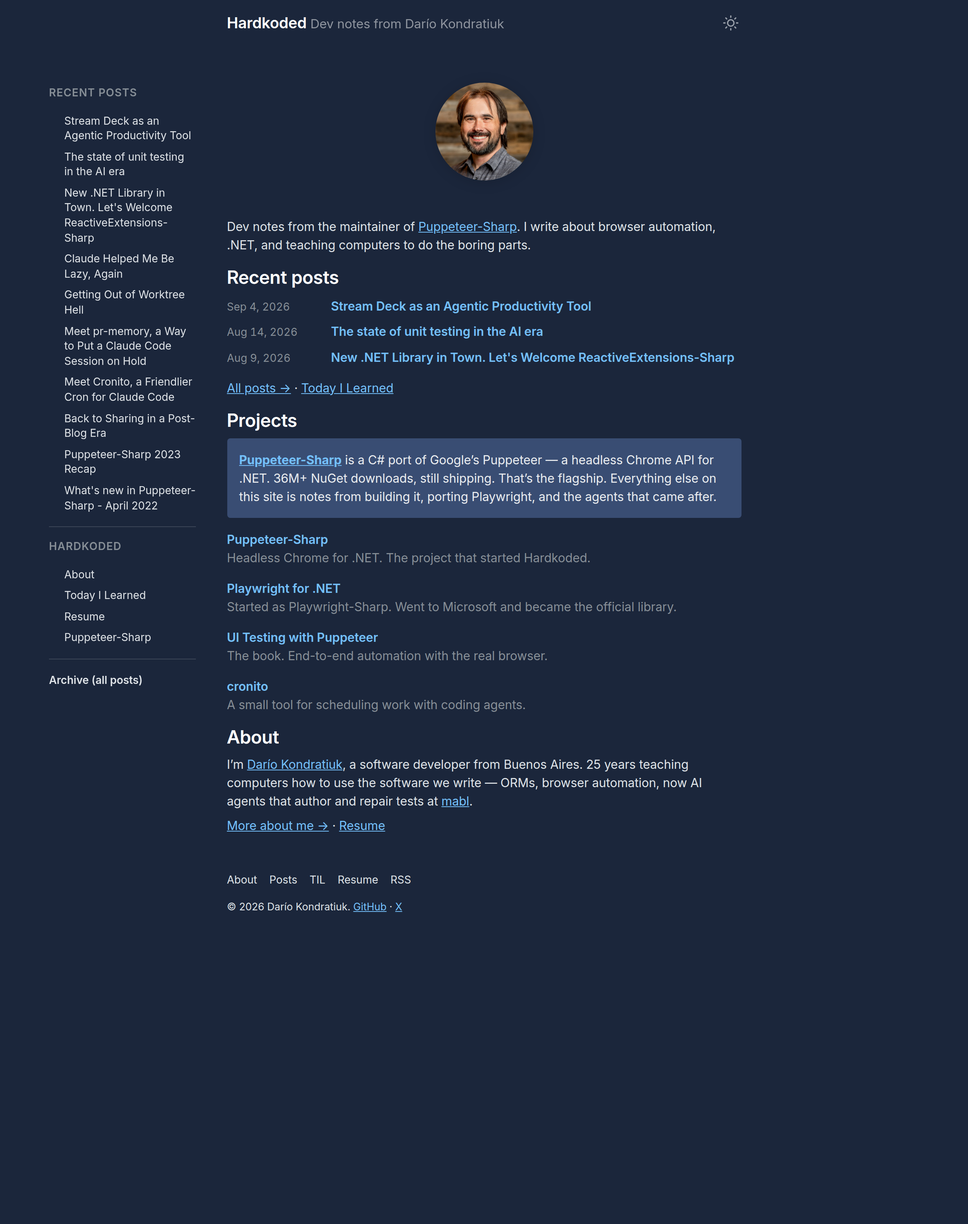
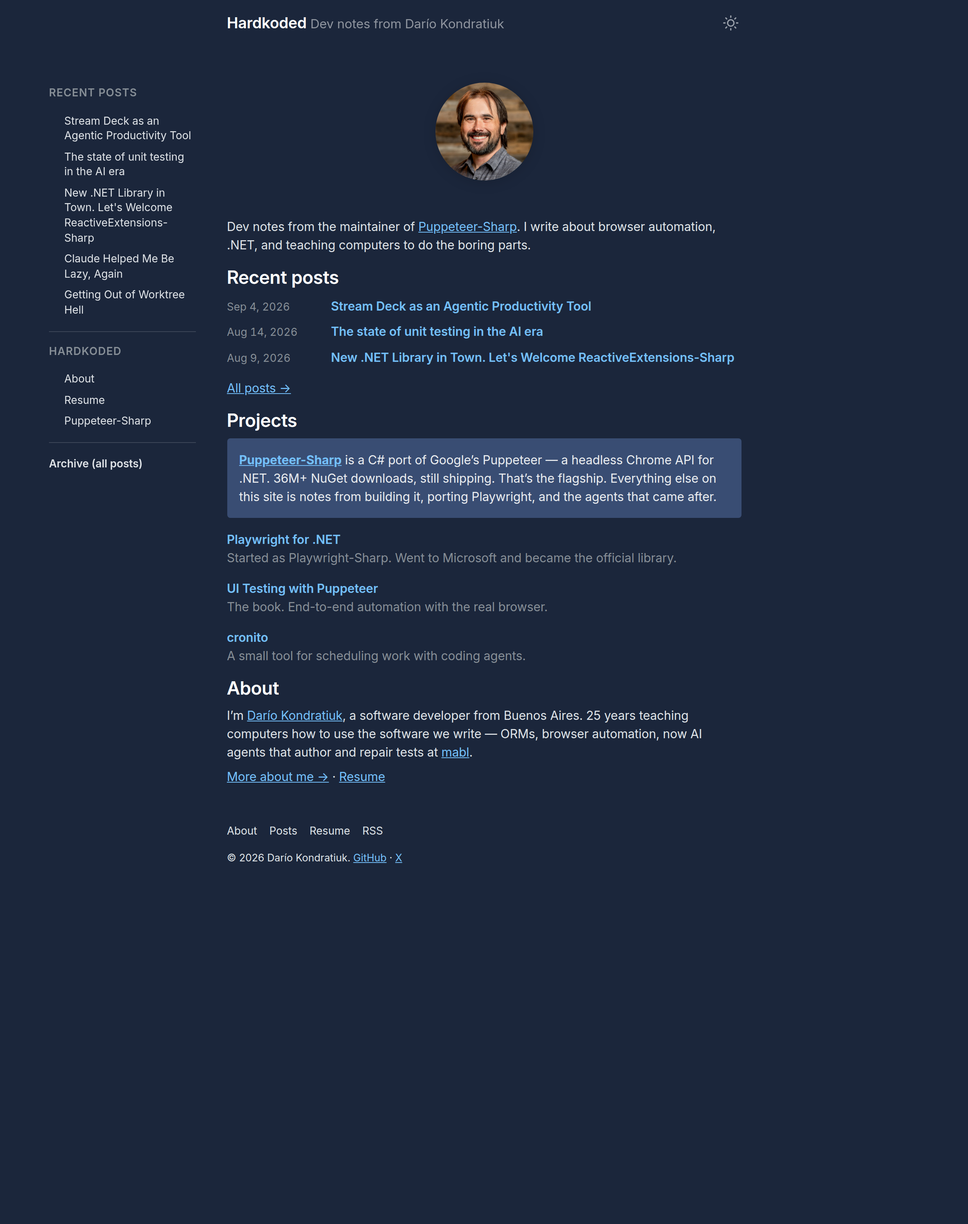
Tighten Swimmer preview: one CTA, no TIL, 5 recent, hero
- Homepage keeps a single Puppeteer-Sharp flagship box; other
  projects only below it.
- Remove the TIL collection, /til/ page, and chrome links.
- Cap the sidebar Recent Posts list at 5 (homepage funnel stays 3).
- Render page.hero / page.image on posts; add AI-era light screenshot.

diff --git a/styles.css b/styles.css
@@ -1,2 +1,2 @@
 /*! tailwindcss v4.3.1 | MIT License | https://tailwindcss.com */
-@layer properties{@supports (((-webkit-hyphens:none)) and (not (margin-trim:inline))) or ((-moz-orient:inline) and (not (color:rgb(from red r g b)))){*,:before,:after,::backdrop{--tw-rotate-x:initial;--tw-rotate-y:initial;--tw-rotate-z:initial;--tw-skew-x:initial;--tw-skew-y:initial;--tw-border-style:solid;--tw-blur:initial;--tw-brightness:initial;--tw-contrast:initial;--tw-grayscale:initial;--tw-hue-rotate:initial;--tw-invert:initial;--tw-opacity:initial;--tw-saturate:initial;--tw-sepia:initial;--tw-drop-shadow:initial;--tw-drop-shadow-color:initial;--tw-drop-shadow-alpha:100%;--tw-drop-shadow-size:initial}}}@layer theme{:root,:host{--color-blue-300:#74c0fc;--color-blue-400:#4dabf7;--color-gray-200:#e9ecef;--color-gray-300:#dee2e6;--color-gray-400:#ced4da;--color-gray-600:#868e96;--color-gray-700:#495057;--color-gray-900:#212529;--color-grape:#be4bdb;--color-blue:#228be6;--font-body:"Inter", -apple-system, BlinkMacSystemFont, "Segoe UI", Roboto, "Helvetica Neue", Arial, "Noto Sans", sans-serif, "Apple Color Emoji", "Segoe UI Emoji", "Segoe UI Symbol", "Noto Color Emoji";--font-code:"Roboto Mono", SFMono-Regular, Menlo, Monaco, Consolas, "Liberation Mono", "Courier New", monospace;--radius-default:.25rem}}@layer utilities{.invisible{visibility:hidden}.visible{visibility:visible}.absolute{position:absolute}.fixed{position:fixed}.relative{position:relative}.static{position:static}.container{width:100%}@media (min-width:40rem){.container{max-width:40rem}}@media (min-width:48rem){.container{max-width:48rem}}@media (min-width:64rem){.container{max-width:64rem}}@media (min-width:80rem){.container{max-width:80rem}}@media (min-width:96rem){.container{max-width:96rem}}.block{display:block}.grid{display:grid}.inline{display:inline}.table{display:table}.grow{flex-grow:1}.transform{transform:var(--tw-rotate-x,) var(--tw-rotate-y,) var(--tw-rotate-z,) var(--tw-skew-x,) var(--tw-skew-y,)}.border{border-style:var(--tw-border-style);border-width:1px}.filter{filter:var(--tw-blur,) var(--tw-brightness,) var(--tw-contrast,) var(--tw-grayscale,) var(--tw-hue-rotate,) var(--tw-invert,) var(--tw-saturate,) var(--tw-sepia,) var(--tw-drop-shadow,)}}@font-face{font-family:Inter;font-style:normal;font-weight:100 900;font-display:swap;src:url(assets/fonts/InterVariable.woff2)format("woff2")}@font-face{font-family:Roboto Mono;font-style:normal;font-weight:100 700;font-display:swap;src:url(assets/fonts/RobotoMono-Variable.woff2)format("woff2")}:root{--body-font-size:16px;--body-line-height:1.5;--body-color:var(--color-gray-700);--body-bg:#f7f9fc;--link-color:var(--color-blue);--link-hover-color:#1c7ed6;--heading-color:var(--color-gray-900);--border-color:var(--color-gray-400);--code-color:var(--color-grape);--code-bg:#eef0f5;--highlight-color:var(--color-gray-900);--highlight-bg:#cfe9ff;--spacer:1rem;--spacer-2:calc(var(--spacer) * 1.5);--spacer-3:calc(var(--spacer) * 3)}@media (prefers-color-scheme:dark){:root:not([data-theme=light]){--body-color:var(--color-gray-300);--body-bg:#1b263b;--heading-color:#fff;--link-color:var(--color-blue-300);--link-hover-color:var(--color-blue-400);--border-color:#ffffff26;--code-bg:#131c2e;--highlight-color:var(--color-gray-200);--highlight-bg:#394d73}}:root[data-theme=dark]{--body-color:var(--color-gray-300);--body-bg:#1b263b;--heading-color:#fff;--link-color:var(--color-blue-300);--link-hover-color:var(--color-blue-400);--border-color:#ffffff26;--code-bg:#131c2e;--highlight-color:var(--color-gray-200);--highlight-bg:#394d73}html{scrollbar-gutter:stable}*{box-sizing:border-box}body{font-family:var(--font-body);font-size:var(--body-font-size);line-height:var(--body-line-height);color:var(--body-color);background-color:var(--body-bg);-webkit-text-size-adjust:100%;-ms-text-size-adjust:100%;-webkit-font-smoothing:antialiased;-moz-osx-font-smoothing:grayscale;text-rendering:optimizelegibility;margin:0}a{color:var(--link-color)}a:hover,a:focus{color:var(--link-hover-color)}a strong{color:inherit}img{max-width:100%;margin-bottom:var(--spacer);border-radius:var(--radius-default);display:block}table{border:0 solid var(--border-color);border-collapse:collapse;width:100%;margin-bottom:1rem}td,th{border-color:inherit;border-style:solid;border-width:0 0 1px;padding:.25rem .5rem}th{text-align:left}thead th{border-bottom-color:currentColor}mark{color:var(--highlight-color);background-color:var(--highlight-bg);border-radius:.125rem;padding:.15rem}h1,h2,h3,h4,h5,h6{color:var(--heading-color);margin-bottom:.5rem;font-weight:600;line-height:1.25}h1{font-size:2rem}h2{margin-top:1rem;font-size:1.5rem}h3{margin-top:1.5rem;font-size:1.25rem}h4,h5,h6{margin-top:1rem;font-size:1rem}p,ul,ol,dl{margin-top:0;margin-bottom:1rem}dt{font-weight:700}dd{margin-bottom:.5rem}hr{margin:var(--spacer-2) 0;border:0;border-top:1px solid var(--border-color);position:relative}abbr{color:var(--color-gray-600);text-transform:uppercase;font-size:85%;font-weight:700}abbr[title]{cursor:help;border-bottom:1px dotted var(--border-color)}blockquote{color:var(--color-gray-600);border-left:.25rem solid var(--border-color);margin:.8rem 0;padding:.5rem 1rem}blockquote p:last-child{margin-bottom:0}@media (min-width:30em){blockquote{padding-left:1.25rem;padding-right:5rem}}figure{margin:0}a[href^="#fn:"],a[href^="#fnref:"]{margin-left:.1rem;font-weight:700;display:inline-block}.footnotes{margin-top:2rem;font-size:85%}.lead{font-size:1.25rem;font-weight:300}.highlight .hll{background-color:#ffc}.highlight .c{color:#999}.highlight .err{color:#a00;background-color:#faa}.highlight .k{color:#069}.highlight .o{color:#555}.highlight .cm{color:#09f;font-style:italic}.highlight .cp{color:#099}.highlight .c1,.highlight .cs{color:#999}.highlight .gd{background-color:#fcc;border:1px solid #c00}.highlight .ge{font-style:italic}.highlight .gr{color:red}.highlight .gh{color:#030}.highlight .gi{background-color:#cfc;border:1px solid #0c0}.highlight .go{color:#aaa}.highlight .gp{color:#009}.highlight .gu{color:#030}.highlight .gt{color:#9c6}.highlight .kc,.highlight .kd,.highlight .kn,.highlight .kp,.highlight .kr{color:#069}.highlight .kt{color:#078}.highlight .m{color:#f60}.highlight .s{color:#d44950}.highlight .na{color:#4f9fcf}.highlight .nb{color:#366}.highlight .nc{color:#0a8}.highlight .no{color:#360}.highlight .nd{color:#99f}.highlight .ni{color:#999}.highlight .ne{color:#c00}.highlight .nf{color:#c0f}.highlight .nl{color:#99f}.highlight .nn{color:#0cf}.highlight .nt{color:#2f6f9f}.highlight .nv{color:#033}.highlight .ow{color:#000}.highlight .w{color:#bbb}.highlight .mf,.highlight .mh,.highlight .mi,.highlight .mo{color:#f60}.highlight .sb,.highlight .sc{color:#c30}.highlight .sd{color:#c30;font-style:italic}.highlight .s2,.highlight .se,.highlight .sh{color:#c30}.highlight .si{color:#a00}.highlight .sx{color:#c30}.highlight .sr{color:#3aa}.highlight .s1{color:#c30}.highlight .ss{color:#b58900}.highlight .bp{color:#366}.highlight .vc,.highlight .vg,.highlight .vi{color:#033}.highlight .il{color:#f60}.css .o,.css .o+.nt,.css .nt+.nt{color:#999}@media (prefers-color-scheme:dark){:root:not([data-theme=light]) .highlight .hll{background-color:#ffffc814}:root:not([data-theme=light]) .highlight .err{color:#e55;background-color:#ff646426}:root:not([data-theme=light]) .highlight .o{color:#999}:root:not([data-theme=light]) .highlight .cp{color:#2cc}:root:not([data-theme=light]) .highlight .gd{background-color:#ff64641a;border-color:#c55}:root:not([data-theme=light]) .highlight .gh,:root:not([data-theme=light]) .highlight .gu{color:#6abf6a}:root:not([data-theme=light]) .highlight .gi{background-color:#64ff641a;border-color:#5a5}:root:not([data-theme=light]) .highlight .gp{color:#68d}:root:not([data-theme=light]) .highlight .k,:root:not([data-theme=light]) .highlight .kc,:root:not([data-theme=light]) .highlight .kd,:root:not([data-theme=light]) .highlight .kn,:root:not([data-theme=light]) .highlight .kp,:root:not([data-theme=light]) .highlight .kr,:root:not([data-theme=light]) .highlight .kt{color:#5aa8d8}:root:not([data-theme=light]) .highlight .nb,:root:not([data-theme=light]) .highlight .bp{color:#5dadad}:root:not([data-theme=light]) .highlight .nc{color:#2cc9a8}:root:not([data-theme=light]) .highlight .no{color:#7abf4a}:root:not([data-theme=light]) .highlight .nt{color:#5ab0e0}:root:not([data-theme=light]) .highlight .nv,:root:not([data-theme=light]) .highlight .vc,:root:not([data-theme=light]) .highlight .vg,:root:not([data-theme=light]) .highlight .vi{color:#5dadad}:root:not([data-theme=light]) .highlight .ow{color:silver}:root:not([data-theme=light]) .highlight .sr{color:#5cc}}:root[data-theme=dark] .highlight .hll{background-color:#ffffc814}:root[data-theme=dark] .highlight .err{color:#e55;background-color:#ff646426}:root[data-theme=dark] .highlight .o{color:#999}:root[data-theme=dark] .highlight .cp{color:#2cc}:root[data-theme=dark] .highlight .gd{background-color:#ff64641a;border-color:#c55}:root[data-theme=dark] .highlight .gh,:root[data-theme=dark] .highlight .gu{color:#6abf6a}:root[data-theme=dark] .highlight .gi{background-color:#64ff641a;border-color:#5a5}:root[data-theme=dark] .highlight .gp{color:#68d}:root[data-theme=dark] .highlight .k,:root[data-theme=dark] .highlight .kc,:root[data-theme=dark] .highlight .kd,:root[data-theme=dark] .highlight .kn,:root[data-theme=dark] .highlight .kp,:root[data-theme=dark] .highlight .kr,:root[data-theme=dark] .highlight .kt{color:#5aa8d8}:root[data-theme=dark] .highlight .nb,:root[data-theme=dark] .highlight .bp{color:#5dadad}:root[data-theme=dark] .highlight .nc{color:#2cc9a8}:root[data-theme=dark] .highlight .no{color:#7abf4a}:root[data-theme=dark] .highlight .nt{color:#5ab0e0}:root[data-theme=dark] .highlight .nv,:root[data-theme=dark] .highlight .vc,:root[data-theme=dark] .highlight .vg,:root[data-theme=dark] .highlight .vi{color:#5dadad}:root[data-theme=dark] .highlight .ow{color:silver}:root[data-theme=dark] .highlight .sr{color:#5cc}code,pre{font-family:var(--font-code)}code{font-size:85%}pre{margin-top:0;margin-bottom:var(--spacer-3);scrollbar-width:thin;scrollbar-color:var(--border-color) transparent;display:block;overflow:auto}.highlight{padding:var(--spacer);margin-bottom:var(--spacer);background-color:var(--code-bg);border-radius:var(--radius-default)}.highlight pre{margin-bottom:0}.highlight .highlight{padding:0}.rouge-table{margin-bottom:0;font-size:100%}.rouge-table,.rouge-table td,.rouge-table th{border:0}.rouge-table .gutter{vertical-align:top;-webkit-user-select:none;user-select:none;opacity:.25}.gist .markdown-body{padding:15px!important}.site-container{max-width:45rem;padding-left:var(--spacer-2);padding-right:var(--spacer-2);margin-left:auto;margin-right:auto}footer{margin-top:var(--spacer-3);margin-bottom:var(--spacer-3)}.landing-logo{margin:0 auto var(--spacer-3);border-radius:var(--radius-default);filter:drop-shadow(0 2px 8px #00000026);display:block}.masthead{justify-content:space-between;align-items:center;gap:var(--spacer);padding-top:var(--spacer);padding-bottom:var(--spacer);margin-bottom:var(--spacer-3);display:flex}@media (max-width:50rem){.masthead{padding-left:2rem}}.masthead-title{margin-top:0;margin-bottom:0}.masthead-title a{color:inherit;text-decoration:none}.masthead-title small{opacity:.5;font-weight:400}.theme-toggle{cursor:pointer;color:var(--body-color);opacity:.65;background:0 0;border:none;flex-shrink:0;padding:.25rem;line-height:1;transition:opacity .2s}.theme-toggle:hover{opacity:1}.theme-toggle svg{width:1.25rem;height:1.25rem;display:block}.theme-toggle .icon-sun{display:none}.theme-toggle .icon-moon{display:block}@media (prefers-color-scheme:dark){:root:not([data-theme=light]) .theme-toggle .icon-sun{display:block}:root:not([data-theme=light]) .theme-toggle .icon-moon{display:none}}:root[data-theme=dark] .theme-toggle .icon-sun{display:block}:root[data-theme=dark] .theme-toggle .icon-moon,:root[data-theme=light] .theme-toggle .icon-sun{display:none}:root[data-theme=light] .theme-toggle .icon-moon{display:block}.page,.post{margin-bottom:4em}:is(.page,.post) li+li{margin-top:.25rem}.page-title,.post-title{color:var(--heading-color);margin-top:0}.post-title a{color:inherit;text-decoration:none}.post-title a:hover,.post-title a:focus{text-decoration:underline}.post-date{margin-top:-.5rem;margin-bottom:var(--spacer);color:var(--color-gray-600);display:block}.related{padding-top:var(--spacer-2);padding-bottom:var(--spacer-2);margin-bottom:var(--spacer-2);border-top:1px solid var(--border-color);border-bottom:1px solid var(--border-color)}.related-posts{padding-left:0;list-style:none}.related-posts h3{margin-top:0}.related-posts a{text-decoration:none}.related-posts a small{color:var(--color-gray-600)}.post-sidebar-toggle{z-index:40;border:1px solid var(--border-color);border-radius:var(--radius-default);background-color:var(--body-bg);width:2.25rem;height:2.25rem;color:var(--body-color);cursor:pointer;justify-content:center;align-items:center;padding:0;transition:opacity .2s;display:flex;position:fixed;top:.75rem;left:.75rem}.post-sidebar-toggle svg{width:1.25rem;height:1.25rem;display:block}.post-sidebar-toggle:hover{opacity:.7}.post-sidebar-backdrop{z-index:20;opacity:0;pointer-events:none;background:#0006;transition:opacity .25s;position:fixed;inset:0}.post-sidebar-backdrop.open{opacity:1;pointer-events:auto}.post-sidebar{z-index:30;width:16rem;padding:var(--spacer-2);background-color:var(--body-bg);border-right:1px solid var(--border-color);padding-top:4rem;transition:transform .25s;position:fixed;top:0;bottom:0;left:0;overflow-y:auto;transform:translate(-100%)}.post-sidebar.open{transform:translate(0)}.post-sidebar-heading{margin-top:0;margin-bottom:var(--spacer);letter-spacing:.05em;text-transform:uppercase;color:var(--color-gray-600);font-size:.875rem;font-weight:600}.post-sidebar-heading--related{margin-top:var(--spacer);padding-top:var(--spacer);border-top:1px solid var(--border-color)}.post-sidebar-list{margin:0;padding-left:1.25em;list-style:none}.post-sidebar-list li+li{margin-top:.25rem}.post-sidebar-list a{color:var(--body-color);padding:.125rem 0;font-size:.875rem;line-height:1.4;text-decoration:none;display:block}.post-sidebar-list a:hover,.post-sidebar-list a:focus{color:var(--link-color)}.post-sidebar-list a.active{color:var(--heading-color);font-weight:600;position:relative}.post-sidebar-list a.active:before{content:"→";position:absolute;left:-1.25em}.post-sidebar-archive{margin-top:var(--spacer);padding-top:var(--spacer);border-top:1px solid var(--border-color);color:var(--body-color);font-size:.875rem;font-weight:600;text-decoration:none;display:block}.post-sidebar-archive:hover,.post-sidebar-archive:focus{color:var(--link-color)}@media (min-width:75rem){.post-sidebar-toggle,.post-sidebar-backdrop{display:none}.post-sidebar{top:7rem;left:calc((100vw - 45rem) / 2 - 12rem - var(--spacer-2));z-index:auto;background-color:#0000;border-right:none;width:12rem;max-height:calc(100vh - 8rem);padding:0;transition:none;position:fixed;bottom:auto;overflow-y:auto;transform:none}}.pagination{margin:0 -1.5rem var(--spacer);color:var(--color-gray-600);text-align:center;flex-direction:column;display:flex}.pagination-item{padding:var(--spacer);border:solid var(--border-color);border-width:1px 0;text-decoration:none;display:block}.pagination-item:first-child{margin-bottom:-1px}a.pagination-item:hover{background-color:var(--border-color)}@media (min-width:30em){.pagination{margin:var(--spacer-3) 0;flex-direction:row}.pagination-item{float:left;border-width:1px;width:50%}.pagination-item:first-child{border-top-left-radius:var(--radius-default);border-bottom-left-radius:var(--radius-default);margin-bottom:0}.pagination-item:last-child{border-top-right-radius:var(--radius-default);border-bottom-right-radius:var(--radius-default);margin-left:-1px}}.message{padding:var(--spacer);margin-bottom:var(--spacer);color:var(--highlight-color);background-color:var(--highlight-bg);border-radius:var(--radius-default)}#markdown-toc{padding:var(--spacer-2) var(--spacer-3);margin-bottom:var(--spacer-2);border:solid var(--border-color);border-width:1px 0}#markdown-toc:before{margin-left:calc(var(--spacer-3) * -1);content:"Contents";font-size:85%;font-weight:500;display:block}.landing-logo{object-fit:cover;border-radius:50%;width:8rem;height:8rem}.landing-posts{margin-bottom:var(--spacer-2);padding-left:0;list-style:none}.landing-posts li{grid-template-columns:7.5rem 1fr;align-items:baseline;gap:.75rem 1rem;margin-top:.6rem;display:grid}.landing-posts time{color:var(--color-gray-600);font-variant-numeric:tabular-nums;font-size:.875rem}.landing-posts a{font-weight:600;text-decoration:none}.landing-posts a:hover,.landing-posts a:focus{text-decoration:underline}.landing-posts-sub{color:var(--color-gray-600);font-size:.9rem;font-weight:400;display:block}.landing-more{margin-top:-.5rem}.project-list{padding-left:0;list-style:none}.project-list li{margin-bottom:1rem}.project-list a{font-weight:600;text-decoration:none}.project-list a:hover,.project-list a:focus{text-decoration:underline}.project-list span{color:var(--color-gray-600);display:block}.post-tags{margin-top:var(--spacer-2);padding-top:var(--spacer);border-top:1px solid var(--border-color);font-size:.875rem}.comments{margin-top:var(--spacer-3);padding-top:var(--spacer-2);border-top:1px solid var(--border-color)}.site-links{flex-wrap:wrap;gap:.35rem 1rem;margin-bottom:.75rem;font-size:.875rem;display:flex}.site-links a{color:var(--body-color);text-decoration:none}.site-links a:hover,.site-links a:focus{color:var(--link-color);text-decoration:underline}.colors{grid-template-columns:max-content 1fr;display:grid}.colors dt{border-radius:var(--radius-default);width:3rem;height:3rem;box-shadow:inset 0 0 0 1px #ffffff26}.colors dd{margin-left:var(--spacer)}@property --tw-rotate-x{syntax:"*";inherits:false}@property --tw-rotate-y{syntax:"*";inherits:false}@property --tw-rotate-z{syntax:"*";inherits:false}@property --tw-skew-x{syntax:"*";inherits:false}@property --tw-skew-y{syntax:"*";inherits:false}@property --tw-border-style{syntax:"*";inherits:false;initial-value:solid}@property --tw-blur{syntax:"*";inherits:false}@property --tw-brightness{syntax:"*";inherits:false}@property --tw-contrast{syntax:"*";inherits:false}@property --tw-grayscale{syntax:"*";inherits:false}@property --tw-hue-rotate{syntax:"*";inherits:false}@property --tw-invert{syntax:"*";inherits:false}@property --tw-opacity{syntax:"*";inherits:false}@property --tw-saturate{syntax:"*";inherits:false}@property --tw-sepia{syntax:"*";inherits:false}@property --tw-drop-shadow{syntax:"*";inherits:false}@property --tw-drop-shadow-color{syntax:"*";inherits:false}@property --tw-drop-shadow-alpha{syntax:"<percentage>";inherits:false;initial-value:100%}@property --tw-drop-shadow-size{syntax:"*";inherits:false}
+@layer properties{@supports (((-webkit-hyphens:none)) and (not (margin-trim:inline))) or ((-moz-orient:inline) and (not (color:rgb(from red r g b)))){*,:before,:after,::backdrop{--tw-rotate-x:initial;--tw-rotate-y:initial;--tw-rotate-z:initial;--tw-skew-x:initial;--tw-skew-y:initial;--tw-border-style:solid;--tw-blur:initial;--tw-brightness:initial;--tw-contrast:initial;--tw-grayscale:initial;--tw-hue-rotate:initial;--tw-invert:initial;--tw-opacity:initial;--tw-saturate:initial;--tw-sepia:initial;--tw-drop-shadow:initial;--tw-drop-shadow-color:initial;--tw-drop-shadow-alpha:100%;--tw-drop-shadow-size:initial}}}@layer theme{:root,:host{--color-blue-300:#74c0fc;--color-blue-400:#4dabf7;--color-gray-200:#e9ecef;--color-gray-300:#dee2e6;--color-gray-400:#ced4da;--color-gray-600:#868e96;--color-gray-700:#495057;--color-gray-900:#212529;--color-grape:#be4bdb;--color-blue:#228be6;--font-body:"Inter", -apple-system, BlinkMacSystemFont, "Segoe UI", Roboto, "Helvetica Neue", Arial, "Noto Sans", sans-serif, "Apple Color Emoji", "Segoe UI Emoji", "Segoe UI Symbol", "Noto Color Emoji";--font-code:"Roboto Mono", SFMono-Regular, Menlo, Monaco, Consolas, "Liberation Mono", "Courier New", monospace;--radius-default:.25rem}}@layer utilities{.invisible{visibility:hidden}.visible{visibility:visible}.absolute{position:absolute}.fixed{position:fixed}.relative{position:relative}.static{position:static}.container{width:100%}@media (min-width:40rem){.container{max-width:40rem}}@media (min-width:48rem){.container{max-width:48rem}}@media (min-width:64rem){.container{max-width:64rem}}@media (min-width:80rem){.container{max-width:80rem}}@media (min-width:96rem){.container{max-width:96rem}}.block{display:block}.grid{display:grid}.inline{display:inline}.table{display:table}.grow{flex-grow:1}.transform{transform:var(--tw-rotate-x,) var(--tw-rotate-y,) var(--tw-rotate-z,) var(--tw-skew-x,) var(--tw-skew-y,)}.border{border-style:var(--tw-border-style);border-width:1px}.filter{filter:var(--tw-blur,) var(--tw-brightness,) var(--tw-contrast,) var(--tw-grayscale,) var(--tw-hue-rotate,) var(--tw-invert,) var(--tw-saturate,) var(--tw-sepia,) var(--tw-drop-shadow,)}}@font-face{font-family:Inter;font-style:normal;font-weight:100 900;font-display:swap;src:url(assets/fonts/InterVariable.woff2)format("woff2")}@font-face{font-family:Roboto Mono;font-style:normal;font-weight:100 700;font-display:swap;src:url(assets/fonts/RobotoMono-Variable.woff2)format("woff2")}:root{--body-font-size:16px;--body-line-height:1.5;--body-color:var(--color-gray-700);--body-bg:#f7f9fc;--link-color:var(--color-blue);--link-hover-color:#1c7ed6;--heading-color:var(--color-gray-900);--border-color:var(--color-gray-400);--code-color:var(--color-grape);--code-bg:#eef0f5;--highlight-color:var(--color-gray-900);--highlight-bg:#cfe9ff;--spacer:1rem;--spacer-2:calc(var(--spacer) * 1.5);--spacer-3:calc(var(--spacer) * 3)}@media (prefers-color-scheme:dark){:root:not([data-theme=light]){--body-color:var(--color-gray-300);--body-bg:#1b263b;--heading-color:#fff;--link-color:var(--color-blue-300);--link-hover-color:var(--color-blue-400);--border-color:#ffffff26;--code-bg:#131c2e;--highlight-color:var(--color-gray-200);--highlight-bg:#394d73}}:root[data-theme=dark]{--body-color:var(--color-gray-300);--body-bg:#1b263b;--heading-color:#fff;--link-color:var(--color-blue-300);--link-hover-color:var(--color-blue-400);--border-color:#ffffff26;--code-bg:#131c2e;--highlight-color:var(--color-gray-200);--highlight-bg:#394d73}html{scrollbar-gutter:stable}*{box-sizing:border-box}body{font-family:var(--font-body);font-size:var(--body-font-size);line-height:var(--body-line-height);color:var(--body-color);background-color:var(--body-bg);-webkit-text-size-adjust:100%;-ms-text-size-adjust:100%;-webkit-font-smoothing:antialiased;-moz-osx-font-smoothing:grayscale;text-rendering:optimizelegibility;margin:0}a{color:var(--link-color)}a:hover,a:focus{color:var(--link-hover-color)}a strong{color:inherit}img{max-width:100%;margin-bottom:var(--spacer);border-radius:var(--radius-default);display:block}table{border:0 solid var(--border-color);border-collapse:collapse;width:100%;margin-bottom:1rem}td,th{border-color:inherit;border-style:solid;border-width:0 0 1px;padding:.25rem .5rem}th{text-align:left}thead th{border-bottom-color:currentColor}mark{color:var(--highlight-color);background-color:var(--highlight-bg);border-radius:.125rem;padding:.15rem}h1,h2,h3,h4,h5,h6{color:var(--heading-color);margin-bottom:.5rem;font-weight:600;line-height:1.25}h1{font-size:2rem}h2{margin-top:1rem;font-size:1.5rem}h3{margin-top:1.5rem;font-size:1.25rem}h4,h5,h6{margin-top:1rem;font-size:1rem}p,ul,ol,dl{margin-top:0;margin-bottom:1rem}dt{font-weight:700}dd{margin-bottom:.5rem}hr{margin:var(--spacer-2) 0;border:0;border-top:1px solid var(--border-color);position:relative}abbr{color:var(--color-gray-600);text-transform:uppercase;font-size:85%;font-weight:700}abbr[title]{cursor:help;border-bottom:1px dotted var(--border-color)}blockquote{color:var(--color-gray-600);border-left:.25rem solid var(--border-color);margin:.8rem 0;padding:.5rem 1rem}blockquote p:last-child{margin-bottom:0}@media (min-width:30em){blockquote{padding-left:1.25rem;padding-right:5rem}}figure{margin:0}a[href^="#fn:"],a[href^="#fnref:"]{margin-left:.1rem;font-weight:700;display:inline-block}.footnotes{margin-top:2rem;font-size:85%}.lead{font-size:1.25rem;font-weight:300}.highlight .hll{background-color:#ffc}.highlight .c{color:#999}.highlight .err{color:#a00;background-color:#faa}.highlight .k{color:#069}.highlight .o{color:#555}.highlight .cm{color:#09f;font-style:italic}.highlight .cp{color:#099}.highlight .c1,.highlight .cs{color:#999}.highlight .gd{background-color:#fcc;border:1px solid #c00}.highlight .ge{font-style:italic}.highlight .gr{color:red}.highlight .gh{color:#030}.highlight .gi{background-color:#cfc;border:1px solid #0c0}.highlight .go{color:#aaa}.highlight .gp{color:#009}.highlight .gu{color:#030}.highlight .gt{color:#9c6}.highlight .kc,.highlight .kd,.highlight .kn,.highlight .kp,.highlight .kr{color:#069}.highlight .kt{color:#078}.highlight .m{color:#f60}.highlight .s{color:#d44950}.highlight .na{color:#4f9fcf}.highlight .nb{color:#366}.highlight .nc{color:#0a8}.highlight .no{color:#360}.highlight .nd{color:#99f}.highlight .ni{color:#999}.highlight .ne{color:#c00}.highlight .nf{color:#c0f}.highlight .nl{color:#99f}.highlight .nn{color:#0cf}.highlight .nt{color:#2f6f9f}.highlight .nv{color:#033}.highlight .ow{color:#000}.highlight .w{color:#bbb}.highlight .mf,.highlight .mh,.highlight .mi,.highlight .mo{color:#f60}.highlight .sb,.highlight .sc{color:#c30}.highlight .sd{color:#c30;font-style:italic}.highlight .s2,.highlight .se,.highlight .sh{color:#c30}.highlight .si{color:#a00}.highlight .sx{color:#c30}.highlight .sr{color:#3aa}.highlight .s1{color:#c30}.highlight .ss{color:#b58900}.highlight .bp{color:#366}.highlight .vc,.highlight .vg,.highlight .vi{color:#033}.highlight .il{color:#f60}.css .o,.css .o+.nt,.css .nt+.nt{color:#999}@media (prefers-color-scheme:dark){:root:not([data-theme=light]) .highlight .hll{background-color:#ffffc814}:root:not([data-theme=light]) .highlight .err{color:#e55;background-color:#ff646426}:root:not([data-theme=light]) .highlight .o{color:#999}:root:not([data-theme=light]) .highlight .cp{color:#2cc}:root:not([data-theme=light]) .highlight .gd{background-color:#ff64641a;border-color:#c55}:root:not([data-theme=light]) .highlight .gh,:root:not([data-theme=light]) .highlight .gu{color:#6abf6a}:root:not([data-theme=light]) .highlight .gi{background-color:#64ff641a;border-color:#5a5}:root:not([data-theme=light]) .highlight .gp{color:#68d}:root:not([data-theme=light]) .highlight .k,:root:not([data-theme=light]) .highlight .kc,:root:not([data-theme=light]) .highlight .kd,:root:not([data-theme=light]) .highlight .kn,:root:not([data-theme=light]) .highlight .kp,:root:not([data-theme=light]) .highlight .kr,:root:not([data-theme=light]) .highlight .kt{color:#5aa8d8}:root:not([data-theme=light]) .highlight .nb,:root:not([data-theme=light]) .highlight .bp{color:#5dadad}:root:not([data-theme=light]) .highlight .nc{color:#2cc9a8}:root:not([data-theme=light]) .highlight .no{color:#7abf4a}:root:not([data-theme=light]) .highlight .nt{color:#5ab0e0}:root:not([data-theme=light]) .highlight .nv,:root:not([data-theme=light]) .highlight .vc,:root:not([data-theme=light]) .highlight .vg,:root:not([data-theme=light]) .highlight .vi{color:#5dadad}:root:not([data-theme=light]) .highlight .ow{color:silver}:root:not([data-theme=light]) .highlight .sr{color:#5cc}}:root[data-theme=dark] .highlight .hll{background-color:#ffffc814}:root[data-theme=dark] .highlight .err{color:#e55;background-color:#ff646426}:root[data-theme=dark] .highlight .o{color:#999}:root[data-theme=dark] .highlight .cp{color:#2cc}:root[data-theme=dark] .highlight .gd{background-color:#ff64641a;border-color:#c55}:root[data-theme=dark] .highlight .gh,:root[data-theme=dark] .highlight .gu{color:#6abf6a}:root[data-theme=dark] .highlight .gi{background-color:#64ff641a;border-color:#5a5}:root[data-theme=dark] .highlight .gp{color:#68d}:root[data-theme=dark] .highlight .k,:root[data-theme=dark] .highlight .kc,:root[data-theme=dark] .highlight .kd,:root[data-theme=dark] .highlight .kn,:root[data-theme=dark] .highlight .kp,:root[data-theme=dark] .highlight .kr,:root[data-theme=dark] .highlight .kt{color:#5aa8d8}:root[data-theme=dark] .highlight .nb,:root[data-theme=dark] .highlight .bp{color:#5dadad}:root[data-theme=dark] .highlight .nc{color:#2cc9a8}:root[data-theme=dark] .highlight .no{color:#7abf4a}:root[data-theme=dark] .highlight .nt{color:#5ab0e0}:root[data-theme=dark] .highlight .nv,:root[data-theme=dark] .highlight .vc,:root[data-theme=dark] .highlight .vg,:root[data-theme=dark] .highlight .vi{color:#5dadad}:root[data-theme=dark] .highlight .ow{color:silver}:root[data-theme=dark] .highlight .sr{color:#5cc}code,pre{font-family:var(--font-code)}code{font-size:85%}pre{margin-top:0;margin-bottom:var(--spacer-3);scrollbar-width:thin;scrollbar-color:var(--border-color) transparent;display:block;overflow:auto}.highlight{padding:var(--spacer);margin-bottom:var(--spacer);background-color:var(--code-bg);border-radius:var(--radius-default)}.highlight pre{margin-bottom:0}.highlight .highlight{padding:0}.rouge-table{margin-bottom:0;font-size:100%}.rouge-table,.rouge-table td,.rouge-table th{border:0}.rouge-table .gutter{vertical-align:top;-webkit-user-select:none;user-select:none;opacity:.25}.gist .markdown-body{padding:15px!important}.site-container{max-width:45rem;padding-left:var(--spacer-2);padding-right:var(--spacer-2);margin-left:auto;margin-right:auto}footer{margin-top:var(--spacer-3);margin-bottom:var(--spacer-3)}.landing-logo{margin:0 auto var(--spacer-3);border-radius:var(--radius-default);filter:drop-shadow(0 2px 8px #00000026);display:block}.masthead{justify-content:space-between;align-items:center;gap:var(--spacer);padding-top:var(--spacer);padding-bottom:var(--spacer);margin-bottom:var(--spacer-3);display:flex}@media (max-width:50rem){.masthead{padding-left:2rem}}.masthead-title{margin-top:0;margin-bottom:0}.masthead-title a{color:inherit;text-decoration:none}.masthead-title small{opacity:.5;font-weight:400}.theme-toggle{cursor:pointer;color:var(--body-color);opacity:.65;background:0 0;border:none;flex-shrink:0;padding:.25rem;line-height:1;transition:opacity .2s}.theme-toggle:hover{opacity:1}.theme-toggle svg{width:1.25rem;height:1.25rem;display:block}.theme-toggle .icon-sun{display:none}.theme-toggle .icon-moon{display:block}@media (prefers-color-scheme:dark){:root:not([data-theme=light]) .theme-toggle .icon-sun{display:block}:root:not([data-theme=light]) .theme-toggle .icon-moon{display:none}}:root[data-theme=dark] .theme-toggle .icon-sun{display:block}:root[data-theme=dark] .theme-toggle .icon-moon,:root[data-theme=light] .theme-toggle .icon-sun{display:none}:root[data-theme=light] .theme-toggle .icon-moon{display:block}.page,.post{margin-bottom:4em}:is(.page,.post) li+li{margin-top:.25rem}.page-title,.post-title{color:var(--heading-color);margin-top:0}.post-title a{color:inherit;text-decoration:none}.post-title a:hover,.post-title a:focus{text-decoration:underline}.post-date{margin-top:-.5rem;margin-bottom:var(--spacer);color:var(--color-gray-600);display:block}.post-hero{width:100%;height:auto;margin:0 0 var(--spacer-2);border-radius:var(--radius-default)}.related{padding-top:var(--spacer-2);padding-bottom:var(--spacer-2);margin-bottom:var(--spacer-2);border-top:1px solid var(--border-color);border-bottom:1px solid var(--border-color)}.related-posts{padding-left:0;list-style:none}.related-posts h3{margin-top:0}.related-posts a{text-decoration:none}.related-posts a small{color:var(--color-gray-600)}.post-sidebar-toggle{z-index:40;border:1px solid var(--border-color);border-radius:var(--radius-default);background-color:var(--body-bg);width:2.25rem;height:2.25rem;color:var(--body-color);cursor:pointer;justify-content:center;align-items:center;padding:0;transition:opacity .2s;display:flex;position:fixed;top:.75rem;left:.75rem}.post-sidebar-toggle svg{width:1.25rem;height:1.25rem;display:block}.post-sidebar-toggle:hover{opacity:.7}.post-sidebar-backdrop{z-index:20;opacity:0;pointer-events:none;background:#0006;transition:opacity .25s;position:fixed;inset:0}.post-sidebar-backdrop.open{opacity:1;pointer-events:auto}.post-sidebar{z-index:30;width:16rem;padding:var(--spacer-2);background-color:var(--body-bg);border-right:1px solid var(--border-color);padding-top:4rem;transition:transform .25s;position:fixed;top:0;bottom:0;left:0;overflow-y:auto;transform:translate(-100%)}.post-sidebar.open{transform:translate(0)}.post-sidebar-heading{margin-top:0;margin-bottom:var(--spacer);letter-spacing:.05em;text-transform:uppercase;color:var(--color-gray-600);font-size:.875rem;font-weight:600}.post-sidebar-heading--related{margin-top:var(--spacer);padding-top:var(--spacer);border-top:1px solid var(--border-color)}.post-sidebar-list{margin:0;padding-left:1.25em;list-style:none}.post-sidebar-list li+li{margin-top:.25rem}.post-sidebar-list a{color:var(--body-color);padding:.125rem 0;font-size:.875rem;line-height:1.4;text-decoration:none;display:block}.post-sidebar-list a:hover,.post-sidebar-list a:focus{color:var(--link-color)}.post-sidebar-list a.active{color:var(--heading-color);font-weight:600;position:relative}.post-sidebar-list a.active:before{content:"→";position:absolute;left:-1.25em}.post-sidebar-archive{margin-top:var(--spacer);padding-top:var(--spacer);border-top:1px solid var(--border-color);color:var(--body-color);font-size:.875rem;font-weight:600;text-decoration:none;display:block}.post-sidebar-archive:hover,.post-sidebar-archive:focus{color:var(--link-color)}@media (min-width:75rem){.post-sidebar-toggle,.post-sidebar-backdrop{display:none}.post-sidebar{top:7rem;left:calc((100vw - 45rem) / 2 - 12rem - var(--spacer-2));z-index:auto;background-color:#0000;border-right:none;width:12rem;max-height:calc(100vh - 8rem);padding:0;transition:none;position:fixed;bottom:auto;overflow-y:auto;transform:none}}.pagination{margin:0 -1.5rem var(--spacer);color:var(--color-gray-600);text-align:center;flex-direction:column;display:flex}.pagination-item{padding:var(--spacer);border:solid var(--border-color);border-width:1px 0;text-decoration:none;display:block}.pagination-item:first-child{margin-bottom:-1px}a.pagination-item:hover{background-color:var(--border-color)}@media (min-width:30em){.pagination{margin:var(--spacer-3) 0;flex-direction:row}.pagination-item{float:left;border-width:1px;width:50%}.pagination-item:first-child{border-top-left-radius:var(--radius-default);border-bottom-left-radius:var(--radius-default);margin-bottom:0}.pagination-item:last-child{border-top-right-radius:var(--radius-default);border-bottom-right-radius:var(--radius-default);margin-left:-1px}}.message{padding:var(--spacer);margin-bottom:var(--spacer);color:var(--highlight-color);background-color:var(--highlight-bg);border-radius:var(--radius-default)}#markdown-toc{padding:var(--spacer-2) var(--spacer-3);margin-bottom:var(--spacer-2);border:solid var(--border-color);border-width:1px 0}#markdown-toc:before{margin-left:calc(var(--spacer-3) * -1);content:"Contents";font-size:85%;font-weight:500;display:block}.landing-logo{object-fit:cover;border-radius:50%;width:8rem;height:8rem}.landing-posts{margin-bottom:var(--spacer-2);padding-left:0;list-style:none}.landing-posts li{grid-template-columns:7.5rem 1fr;align-items:baseline;gap:.75rem 1rem;margin-top:.6rem;display:grid}.landing-posts time{color:var(--color-gray-600);font-variant-numeric:tabular-nums;font-size:.875rem}.landing-posts a{font-weight:600;text-decoration:none}.landing-posts a:hover,.landing-posts a:focus{text-decoration:underline}.landing-posts-sub{color:var(--color-gray-600);font-size:.9rem;font-weight:400;display:block}.landing-more{margin-top:-.5rem}.project-list{padding-left:0;list-style:none}.project-list li{margin-bottom:1rem}.project-list a{font-weight:600;text-decoration:none}.project-list a:hover,.project-list a:focus{text-decoration:underline}.project-list span{color:var(--color-gray-600);display:block}.post-tags{margin-top:var(--spacer-2);padding-top:var(--spacer);border-top:1px solid var(--border-color);font-size:.875rem}.comments{margin-top:var(--spacer-3);padding-top:var(--spacer-2);border-top:1px solid var(--border-color)}.site-links{flex-wrap:wrap;gap:.35rem 1rem;margin-bottom:.75rem;font-size:.875rem;display:flex}.site-links a{color:var(--body-color);text-decoration:none}.site-links a:hover,.site-links a:focus{color:var(--link-color);text-decoration:underline}.colors{grid-template-columns:max-content 1fr;display:grid}.colors dt{border-radius:var(--radius-default);width:3rem;height:3rem;box-shadow:inset 0 0 0 1px #ffffff26}.colors dd{margin-left:var(--spacer)}@property --tw-rotate-x{syntax:"*";inherits:false}@property --tw-rotate-y{syntax:"*";inherits:false}@property --tw-rotate-z{syntax:"*";inherits:false}@property --tw-skew-x{syntax:"*";inherits:false}@property --tw-skew-y{syntax:"*";inherits:false}@property --tw-border-style{syntax:"*";inherits:false;initial-value:solid}@property --tw-blur{syntax:"*";inherits:false}@property --tw-brightness{syntax:"*";inherits:false}@property --tw-contrast{syntax:"*";inherits:false}@property --tw-grayscale{syntax:"*";inherits:false}@property --tw-hue-rotate{syntax:"*";inherits:false}@property --tw-invert{syntax:"*";inherits:false}@property --tw-opacity{syntax:"*";inherits:false}@property --tw-saturate{syntax:"*";inherits:false}@property --tw-sepia{syntax:"*";inherits:false}@property --tw-drop-shadow{syntax:"*";inherits:false}@property --tw-drop-shadow-color{syntax:"*";inherits:false}@property --tw-drop-shadow-alpha{syntax:"<percentage>";inherits:false;initial-value:100%}@property --tw-drop-shadow-size{syntax:"*";inherits:false}

diff --git a/_includes/post-sidebar.html b/_includes/post-sidebar.html
@@ -9,7 +9,7 @@
 <aside class="post-sidebar">
   <h4 class="post-sidebar-heading">Recent Posts</h4>
   <ul class="post-sidebar-list">
-    {% for post in site.posts limit:10 %}
+    {% for post in site.posts limit:5 %}
       <li>
         <a href="{{ post.url | relative_url }}" {% if post.url == page.url %}class="active"{% endif %}>
           {{ post.title }}
@@ -36,7 +36,6 @@
   <h4 class="post-sidebar-heading post-sidebar-heading--related">Hardkoded</h4>
   <ul class="post-sidebar-list">
     <li><a href="{{ '/aboutme/' | relative_url }}" {% if page.url == '/aboutme/' %}class="active"{% endif %}>About</a></li>
-    <li><a href="{{ '/til/' | relative_url }}" {% if page.url == '/til/' %}class="active"{% endif %}>Today I Learned</a></li>
     <li><a href="{{ '/resume' | relative_url }}">Resume</a></li>
     <li><a href="https://github.com/hardkoded/puppeteer-sharp">Puppeteer-Sharp</a></li>
   </ul>

diff --git a/_layouts/default.html b/_layouts/default.html
@@ -30,7 +30,6 @@
         <nav class="site-links" aria-label="Site">
           <a href="{{ '/aboutme/' | relative_url }}">About</a>
           <a href="{{ '/archive/' | relative_url }}">Posts</a>
-          <a href="{{ '/til/' | relative_url }}">TIL</a>
           <a href="{{ '/resume' | relative_url }}">Resume</a>
           <a href="{{ '/feed.xml' | relative_url }}">RSS</a>
         </nav>

diff --git a/_layouts/post.html b/_layouts/post.html
@@ -10,6 +10,10 @@ layout: default
   {% if page.subtitle %}
   <p class="lead">{{ page.subtitle }}</p>
   {% endif %}
+  {% assign hero = page.hero | default: page.image %}
+  {% if hero %}
+  <img class="post-hero" src="{{ hero | relative_url }}" alt="">
+  {% endif %}
   {{ content }}
 
   {% if page.tags.size > 0 %}

diff --git a/_css/posts.css b/_css/posts.css
@@ -32,6 +32,13 @@
   color: var(--color-gray-600);
 }
 
+.post-hero {
+  width: 100%;
+  height: auto;
+  margin: 0 0 var(--spacer-2);
+  border-radius: var(--radius-default);
+}
+
 .related {
   padding-top: var(--spacer-2);
   padding-bottom: var(--spacer-2);

diff --git a/CLAUDE.md b/CLAUDE.md
@@ -30,9 +30,8 @@ There is no linter, formatter, or test suite in this repo.
 
 ## Content architecture
 
-- **`_posts/`** — main blog posts (Markdown), filename pattern `YYYY-MM-DD-slug.md`. Front matter uses `title`, `tags` (space-separated string, e.g. `tags: puppeteer-sharp csharp`), and `permalink` (posts use custom permalinks like `/blog/...`). Layout defaults to `post` via `_config.yml`.
-- **`_tils/`** — "Today I Learned" collection, listed on `/til/`. Front matter typically sets `layout: post`, comma-separated `tags`, and a `/til/...` permalink.
-- **`index.md`** — dedicated landing page (not a paginated post list): 3 recent posts, Puppeteer-Sharp / Hardkoded project CTA, About.
+- **`_posts/`** — main blog posts (Markdown), filename pattern `YYYY-MM-DD-slug.md`. Front matter uses `title`, `tags` (space-separated string, e.g. `tags: puppeteer-sharp csharp`), and `permalink` (posts use custom permalinks like `/blog/...`). Layout defaults to `post` via `_config.yml`. Optional `hero` / `image` renders above the body.
+- **`index.md`** — dedicated landing page (not a paginated post list): 3 recent posts, Puppeteer-Sharp flagship CTA, other projects, About.
 - **`archive.md`** — full post list grouped by month.
 - **`tag/*.md`** — one stub page per tag (`layout: tag_index`). `_data/tags.yml` lists known tag slugs/names. `_plugins/_tag_gen.rb` generates indexes only for tags that do not already have a stub.
 - **`goto/*.md`** — short-link redirect pages (`layout: redirected`, `redirect_to: <url>`).
@@ -44,7 +43,6 @@ There is no linter, formatter, or test suite in this repo.
 ## Conventions to follow when adding content
 
 - New blog posts: add to `_posts/` with a `YYYY-MM-DD-slug.md` filename, `title`, `tags` (space-separated), and an explicit `permalink: /blog/<slug>`.
-- New TILs: add to `_tils/` with `YYYY-MM-DD-slug.md`, and front matter matching the existing pattern (`layout: post`, comma-separated `tags`, `permalink: /til/<slug>`).
 - Introducing a brand-new tag: add an entry to `_data/tags.yml` and create the matching `tag/<slug>.md` stub (copy an existing one and change `tag`/`title`/`permalink`).
 - Adding a redirect/short link: add a file under `goto/` following `goto/pptr-slack.md`'s front matter shape.
 - Promoting a post (`.claude/skills/promote-post`): punch links must always carry UTMs so GA4 can attribute Organic Social / campaigns. Campaign slug = last path segment of `permalink`. Templates: `?utm_source=x&utm_medium=social&utm_campaign=<slug>` (X) and `?utm_source=linkedin&utm_medium=social&utm_campaign=<slug>` (LinkedIn). Never append a bare canonical URL as the punch link.

diff --git a/PREVIEW.md b/PREVIEW.md
@@ -31,11 +31,11 @@ make build
 ## What this preview does
 
 - Replaces vendored Beautiful Jekyll (Dean Attali) layouts/CSS/JS with Swimmer layouts, Inter/Roboto Mono, Tailwind v4, dark-mode toggle, and the post sidebar.
-- Keeps Hardkoded content: `_posts/`, `_tils/`, About, Resume (standalone HTML + `css/resume-style.css`), tag stubs, `goto/` redirects, images, `CNAME`, `/feed.xml`.
+- Keeps Hardkoded content: `_posts/`, About, Resume (standalone HTML + `css/resume-style.css`), tag stubs, `goto/` redirects, images, `CNAME`, `/feed.xml`. TIL collection and chrome are removed in this preview.
 - Homepage is a funnel (issue #44), not a paginated river:
   1. Avatar + one-line pitch
-  2. **3 most recent posts** + link to archive / TIL
-  3. **Puppeteer-Sharp CTA** + Hardkoded projects (Playwright for .NET, the book, cronito)
+  2. **3 most recent posts** + link to archive
+  3. **One** Puppeteer-Sharp flagship CTA; other projects listed below (no duplicate)
   4. **About** teaser + resume
 - Branding: title **Hardkoded**, tagline Darío Kondratiuk, author/SEO/Twitter `@hardkoded`.
 - Adds Swimmer `atom.xml` next to the existing `feed.xml`.
@@ -52,6 +52,7 @@ make build
 | **Navbar** | Swimmer has no top nav. Site links live in the footer + sidebar. |
 | **UA analytics** | Still the old `UA-586295-8` snippet. No GA4/gtag in this preview. |
 | **Liquid warnings** | Two existing posts contain raw `{{ ... }}` in code samples; Jekyll 4 warns, pages still build. |
+| **TIL** | Removed from this preview: no `_tils/`, no `/til/` page, no chrome links. |
 | **`ui-testing-with-puppeteer/`** | Book notes still render as pages; one destination conflict (`repo.html`) is pre-existing. |
 
 ## Artifacts
@@ -62,3 +63,4 @@ Screenshots (also under `/opt/cursor/artifacts`):
 - `homepage_dark.png`
 - `post_stream_deck.png`
 - `about_page.png`
+- `ai_era_hero_light.png`

diff --git a/index.md b/index.md
@@ -19,7 +19,7 @@ Dev notes from the maintainer of [Puppeteer-Sharp](https://github.com/hardkoded/
 {% endfor %}
 </ol>
 
-<p class="landing-more"><a href="{{ '/archive/' | relative_url }}">All posts →</a> · <a href="{{ '/til/' | relative_url }}">Today I Learned</a></p>
+<p class="landing-more"><a href="{{ '/archive/' | relative_url }}">All posts →</a></p>
 
 ## Projects
 
@@ -28,10 +28,6 @@ Dev notes from the maintainer of [Puppeteer-Sharp](https://github.com/hardkoded/
 </p>
 
 <ul class="project-list">
-  <li>
-    <a href="https://github.com/hardkoded/puppeteer-sharp">Puppeteer-Sharp</a>
-    <span>Headless Chrome for .NET. The project that started Hardkoded.</span>
-  </li>
   <li>
     <a href="https://github.com/microsoft/playwright-dotnet">Playwright for .NET</a>
     <span>Started as Playwright-Sharp. Went to Microsoft and became the official library.</span>
